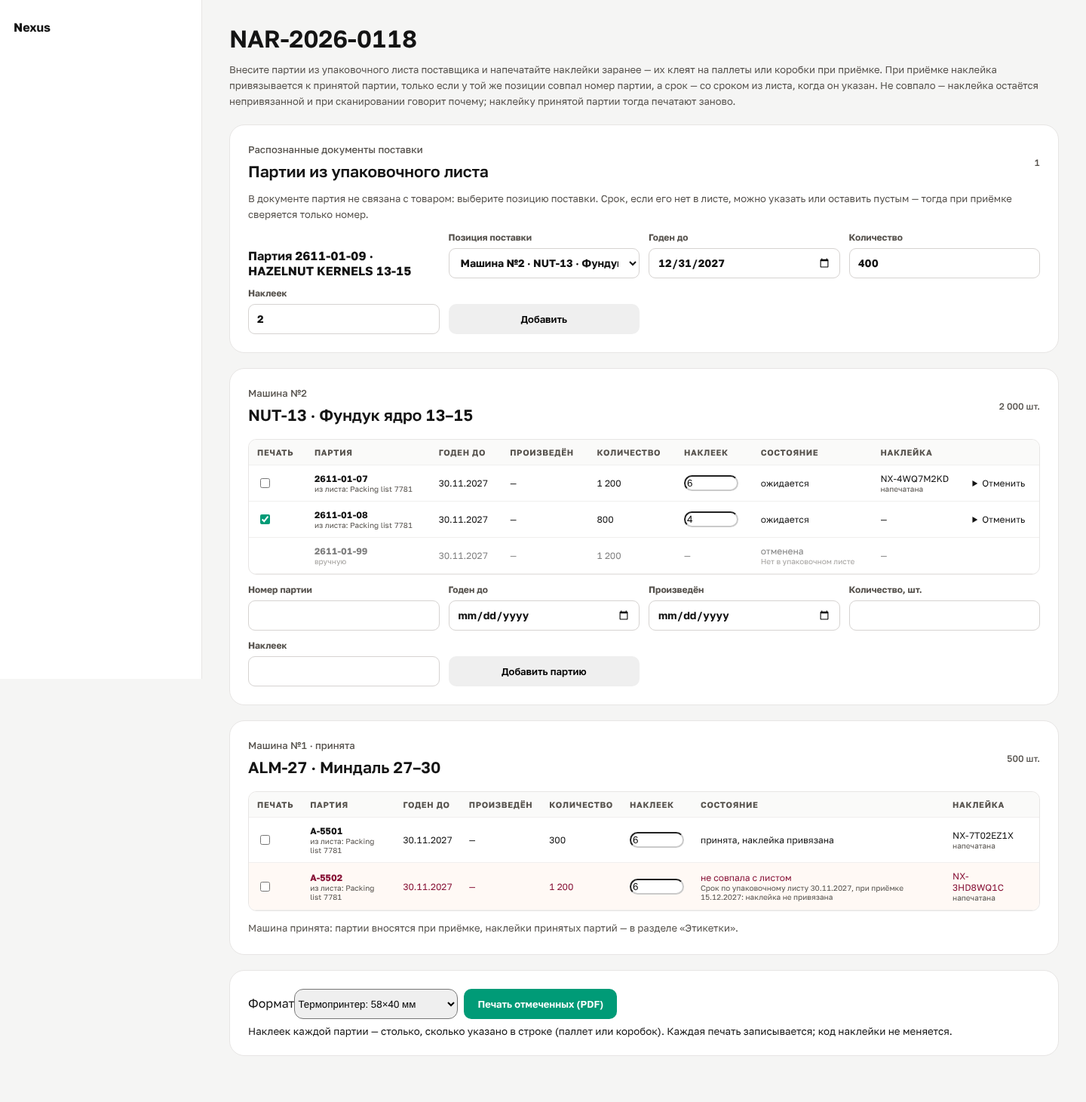
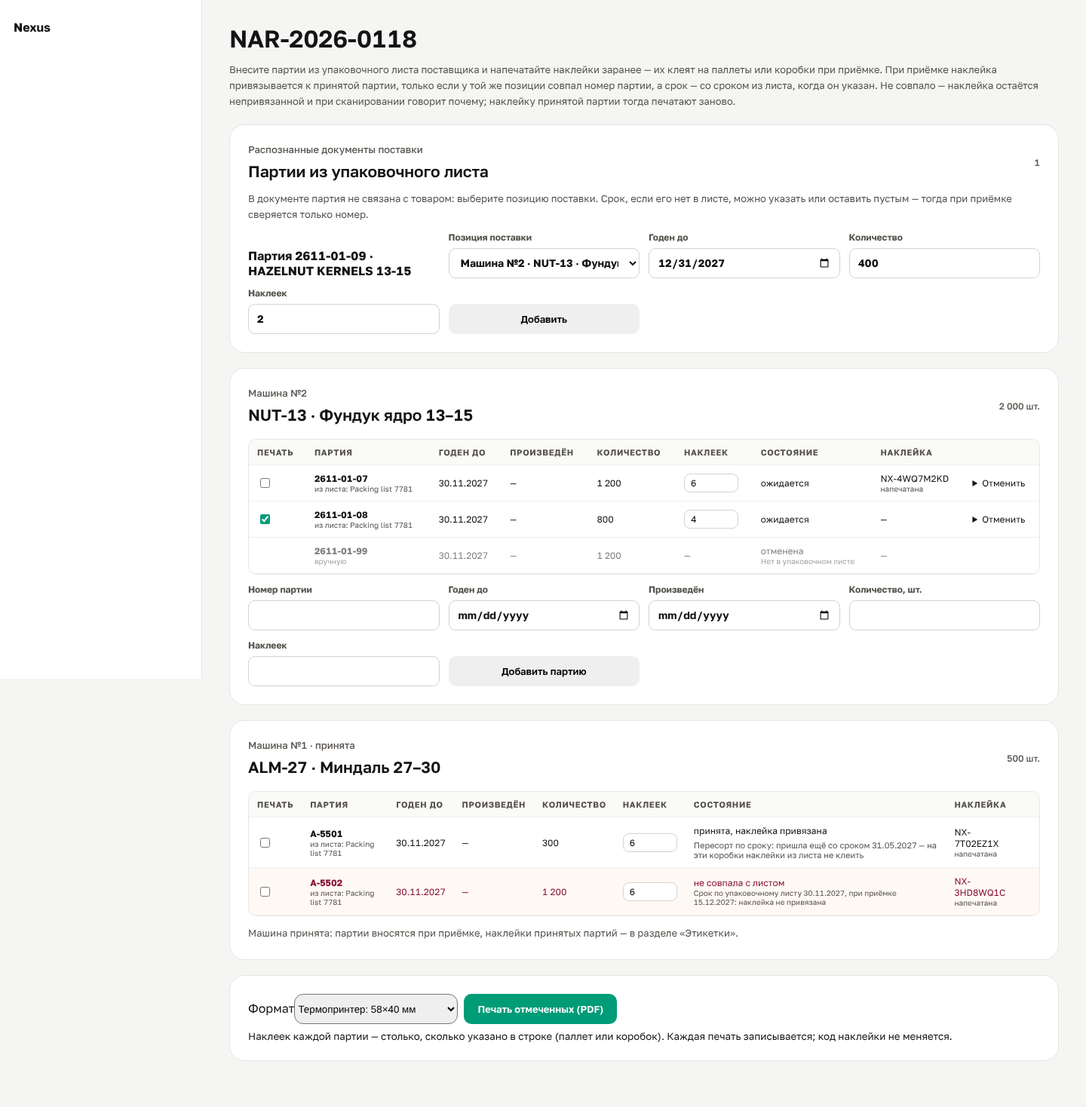
Пересорт по сроку: привязка не зависит от порядка строк, предупреждения
- Наклейка из упаковочного листа привязывается к части партии со сроком из
  листа, даже если строка того же номера с другим сроком стоит в приёмке раньше
  (раньше наклейка помечалась «не совпала» и не привязывалась).
- Тот же номер, принятый с другим сроком, называется: после приёмки
  («Пересорт по сроку»), на странице партий поставки, при поиске по этикетке
  и при отборе (карточка показывает нужный срок).
- Скан коробки на телефоне с тем же номером и другим сроком больше не
  принимается молча: отдельная строка, предупреждение и наклейка, которую на
  эти коробки клеить нельзя.

Claude-Session: https://claude.ai/code/session_01EU8RivHSwKM7VpFoboc5U7

diff --git a/tests/shipments/expected-batches.test.ts b/tests/shipments/expected-batches.test.ts
@@ -1,7 +1,7 @@
 import assert from "node:assert/strict";
 import { describe, it } from "node:test";
 import { matchPick, type PickList } from "../../src/lib/scan/operations.ts";
-import { packingLots, receivingRows, unboundAfterReceipt, type ExpectedBatch, type ShipmentExpected } from "../../src/lib/shipments/expected-batches.ts";
+import { packingLots, receivingRows, receiptLabelWarnings, type ExpectedBatch, type ShipmentExpected } from "../../src/lib/shipments/expected-batches.ts";
 
 const lot = (value: string, extra: Record<string, unknown> = {}) => ({ lot: value, description: "HAZELNUT KERNELS 13-15", quantity: null, cartons: null, pallets: null,
   grossKg: null, netKg: null, expiry: null, ...extra });
@@ -29,7 +29,7 @@ describe("batches of the recognized packing list", () => {
 });
 
 const batch = (value: string, extra: Partial<ExpectedBatch> = {}): ExpectedBatch => ({ id: value, batch: value, expiry_date: "2027-11-30", manufacture_date: null,
-  quantity: null, packages: null, source: "packing_list", source_note: null, state: "expected", note: null, batch_id: null, label_code: `NX-${value}`, printed: true, ...extra });
+  quantity: null, packages: null, source: "packing_list", source_note: null, state: "expected", note: null, batch_id: null, label_code: `NX-${value}`, printed: true, other_expiries: [], ...extra });
 
 describe("receiving rows filled in advance", () => {
   it("one row per batch still expected; a single batch without a quantity takes the whole item", () => {
@@ -39,13 +39,29 @@ describe("receiving rows filled in advance", () => {
     assert.deepEqual(receivingRows(100, []), []);
   });
 
-  it("after the receipt, name the labels of one truck that stayed unbound", () => {
+  it("after the receipt, name the labels of one truck that stayed unbound and the batches mixed up by expiry", () => {
     const data: ShipmentExpected = { shipment_id: "s", shipment_number: "NAR-1", status: "receiving", can_manage: true, orphans: [], items: [
       { item_id: "i1", product_id: "p", sku: "PRE-1", product: "Фундук", uom: "piece", quantity: "100", transport_id: "t1", transport_no: 1, transport_status: "arrived",
-        received: true, batches: [batch("A", { state: "received" }), batch("B", { state: "mismatch" }), batch("Q", { state: "missing" })] },
+        received: true, batches: [batch("A", { state: "received", other_expiries: ["2027-05-31"] }), batch("B", { state: "mismatch" }), batch("Q", { state: "missing" })] },
       { item_id: "i2", product_id: "p2", sku: "PRE-2", product: "Миндаль", uom: "piece", quantity: "5", transport_id: "t2", transport_no: 2, transport_status: "planned",
         received: false, batches: [batch("Z", { state: "missing" })] }] };
-    assert.deepEqual(unboundAfterReceipt(data, "t1"), ["PRE-1 B (не совпала с листом)", "PRE-1 Q (не пришла)"]);
+    assert.equal(receiptLabelWarnings(data, "t1"), "Наклейки по упаковочному листу не привязаны: PRE-1 B (не совпала с листом), PRE-1 Q (не пришла)"
+      + " — напечатайте наклейки принятых партий. Пересорт по сроку: PRE-1 A — ещё со сроком 31.05.2027."
+      + " На коробки с другим сроком наклейки из листа не клеить — напечатайте им свои.");
+    assert.equal(receiptLabelWarnings(data, "t2"), "Наклейки по упаковочному листу не привязаны: PRE-2 Z (не пришла) — напечатайте наклейки принятых партий.");
+    assert.equal(receiptLabelWarnings({ ...data, items: [] }, "t1"), "");
+  });
+});
+
+describe("picking a batch mixed up by expiry", () => {
+  it("the reserved batch is picked, and the other expiry of its number is named", () => {
+    const list: PickList = { sale_id: "s", sale_number: "ЗК-1", status: "confirmed", customer: null, can_replace: false, lines: [
+      { reservation_id: "r", sku: "PRE-1", product: "Фундук", product_id: "p", batch_id: "b", batch: "LOT-A", expiry_date: "2027-11-30", location_id: null, location: "A-1",
+        uom: "piece", quantity: "5", picked: "0" }] };
+    const scan = (others?: string[]) => ({ kind: "batch" as const, code: "NX-1", stock: [], batch: { id: "b", batch: "LOT-A", expiry_date: "2027-11-30", status: "available",
+      product_id: "p", sku: "PRE-1", product: "Фундук", other_expiries: others } });
+    assert.deepEqual(matchPick(list, scan(["2027-05-31"])), { kind: "pick", line: list.lines[0], other_expiries: ["2027-05-31"] });
+    assert.deepEqual(matchPick(list, scan([])), { kind: "pick", line: list.lines[0] });
   });
 });
 

diff --git a/tests/ui/mobile-operations.browser.tsx b/tests/ui/mobile-operations.browser.tsx
@@ -40,13 +40,14 @@ const sheet: CountSheet = {
     supersedes_entry_id: null, superseded: false }], recount: null, book: null };
 
 const expectedBatch = (id: string, batch: string, extra: Partial<ExpectedBatch> = {}): ExpectedBatch => ({ id, batch, expiry_date: "2027-11-30", manufacture_date: null,
-  quantity: "1200", packages: 6, source: "packing_list", source_note: "Packing list 7781", state: "expected", note: null, batch_id: null, label_code: null, printed: false, ...extra });
+  quantity: "1200", packages: 6, source: "packing_list", source_note: "Packing list 7781", state: "expected", note: null, batch_id: null, label_code: null, printed: false,
+  other_expiries: [], ...extra });
 const shipmentBatches: ShipmentExpected = { shipment_id: "sh", shipment_number: "NAR-2026-0118", status: "in_transit", can_manage: true, orphans: [], items: [
   { item_id: "i1", product_id: "p1", sku: "NUT-13", product: "Фундук ядро 13–15", uom: "piece", quantity: "2000", transport_id: "t2", transport_no: 2, transport_status: "in_transit",
     received: false, batches: [expectedBatch("e1", "2611-01-07", { label_code: "NX-4WQ7M2KD", printed: true }), expectedBatch("e2", "2611-01-08", { quantity: "800", packages: 4 }),
       expectedBatch("e3", "2611-01-99", { state: "cancelled", note: "Нет в упаковочном листе", source: "manual", packages: null })] },
   { item_id: "i2", product_id: "p2", sku: "ALM-27", product: "Миндаль 27–30", uom: "piece", quantity: "500", transport_id: "t1", transport_no: 1, transport_status: "arrived",
-    received: true, batches: [expectedBatch("e4", "A-5501", { state: "received", batch_id: "b4", label_code: "NX-7T02EZ1X", printed: true, quantity: "300" }),
+    received: true, batches: [expectedBatch("e4", "A-5501", { state: "received", batch_id: "b4", label_code: "NX-7T02EZ1X", printed: true, quantity: "300", other_expiries: ["2027-05-31"] }),
       expectedBatch("e5", "A-5502", { state: "mismatch", note: "Срок по упаковочному листу 30.11.2027, при приёмке 15.12.2027: наклейка не привязана", label_code: "NX-3HD8WQ1C", printed: true })] }] };
 
 const view = new URLSearchParams(location.search).get("view") ?? "pick";
@@ -72,7 +73,7 @@ function Body() {
       shipment: "NAR-2026-0118", transport_no: 2 } }}/></>;
   if (view === "receive-expected") return <><h1 className="mobile-title">NAR-2026-0118 · машина №2</h1>
     <MobileReceiveForm shipmentId="sh" transportId="tr" performer="Синтетический кладовщик" action={record} locations={[{ id: "l5", code: "R-01", zone: "receiving" }]}
-      items={[{ item_id: "i1", title: "NUT-13 · Фундук ядро 13–15", expected: 2000, unit: "кг", codes: [], batches: [
+      items={[{ item_id: "i1", title: "NUT-13 · Фундук ядро 13–15", expected: 2000, unit: "кг", codes: ["4601234567893"], batches: [
         { expected: "1200", batch: "2611-01-07", expiry: "2027-11-30", manufactured: "", code: "NX-4WQ7M2KD" },
         { expected: "800", batch: "2611-01-08", expiry: "", manufactured: "", code: "NX-9HT3B6RE" }] }]}/></>;
   return <><h1 className="mobile-title">ПСТ-2026-118 · машина №2</h1>

diff --git a/src/lib/shipments/expected-batches.ts b/src/lib/shipments/expected-batches.ts
@@ -7,7 +7,7 @@ import type { ExpectedState } from "../scan/lookup.ts";
 export type ExpectedBatch = {
   id: string; batch: string; expiry_date: string | null; manufacture_date: string | null; quantity: string | null; packages: number | null;
   source: "manual" | "packing_list"; source_note: string | null; state: ExpectedState; note: string | null; batch_id: string | null;
-  label_code: string | null; printed: boolean;
+  label_code: string | null; printed: boolean; other_expiries: string[];
 };
 export type ExpectedItem = {
   item_id: string; product_id: string; sku: string; product: string; uom: string; quantity: string; transport_id: string | null;
@@ -66,9 +66,18 @@ export function receivingRows(itemQuantity: number, batches: ExpectedBatch[]): R
   }));
 }
 
-/** What the receipt did with the labels printed in advance for one truck: the batches whose labels stay unbound. */
-export function unboundAfterReceipt(data: ShipmentExpected, transportId: string) {
-  return data.items.filter(item => item.transport_id === transportId)
-    .flatMap(item => item.batches.filter(batch => ["mismatch", "not_received", "missing"].includes(batch.state))
-      .map(batch => `${item.sku} ${batch.batch} (${expectedStateLabel[batch.state]})`));
+const day = (value: string) => value.split("-").reverse().join(".");
+
+/** What the receipt did with the labels printed in advance for one truck: the batches whose labels stay unbound, and the
+ *  batches that came with another expiry too (mixed up with the packing list) — those boxes must not carry its labels. */
+export function receiptLabelWarnings(data: ShipmentExpected, transportId: string) {
+  const items = data.items.filter(item => item.transport_id === transportId);
+  const unbound = items.flatMap(item => item.batches.filter(batch => ["mismatch", "not_received", "missing"].includes(batch.state))
+    .map(batch => `${item.sku} ${batch.batch} (${expectedStateLabel[batch.state]})`));
+  const mixed = items.flatMap(item => item.batches.filter(batch => batch.state !== "cancelled" && batch.other_expiries.length)
+    .map(batch => `${item.sku} ${batch.batch} — ещё со сроком ${batch.other_expiries.map(day).join(", ")}`));
+  return [
+    unbound.length ? `Наклейки по упаковочному листу не привязаны: ${unbound.join(", ")} — напечатайте наклейки принятых партий.` : "",
+    mixed.length ? `Пересорт по сроку: ${mixed.join("; ")}. На коробки с другим сроком наклейки из листа не клеить — напечатайте им свои.` : "",
+  ].filter(Boolean).join(" ");
 }

diff --git a/src/components/mobile-receive-form.tsx b/src/components/mobile-receive-form.tsx
@@ -54,12 +54,22 @@ export function MobileReceiveForm({ shipmentId, transportId, items, locations, p
     const expiry = gs1?.ok ? gs1.expiry : null;
     if (!batch && !expiry) { setNotice({ ok: true, text: `${item.title}: введите партию и срок`, at, item: item.item_id }); focus(item.item_id); return; }
     const lines = rows[item.item_id];
-    const same = batch ? lines.find(row => row.batch === batch) : undefined;
+    const sameBatch = batch ? lines.filter(row => row.batch.trim().toUpperCase() === batch.toUpperCase()) : [];
+    // The same batch with the same expiry, or with none yet; another expiry on the box is a mix-up with the list.
+    const same = sameBatch.find(row => !expiry || row.expiry === expiry) ?? sameBatch.find(row => !row.expiry);
+    const conflict = !same && expiry ? sameBatch.find(row => row.expiry && row.expiry !== expiry) : undefined;
     const empty = lines.find(row => !row.batch && !row.expiry);
     const filled = `${batch ? `партия ${batch}` : ""}${batch && expiry ? ", " : ""}${expiry ? `срок ${shortDate(expiry)}` : ""}`;
     if (same) {
       if (expiry && !same.expiry) update(item.item_id, same.key, { expiry });
-      setNotice({ ok: true, text: `${item.title}: ${filled} — уже в строке`, at, item: item.item_id });
+      setNotice({ ok: true, text: `${item.title}: ${filled} — ${same.expiry ? "уже в строке" : "срок подставлен"}`, at, item: item.item_id });
+    } else if (conflict) {
+      const key = next;
+      setNext(key + 1);
+      setRows(current => ({ ...current, [item.item_id]: [...current[item.item_id],
+        { key, expected: "", accepted: "", damaged: "0", batch: batch ?? "", manufactured: "", expiry: expiry ?? "", reason: "" }] }));
+      setNotice({ ok: false, item: item.item_id, at, text: `${item.title}: на коробке партии ${batch} срок ${shortDate(expiry!)}, а в строке${conflict.code ? " по листу" : ""} — ${shortDate(conflict.expiry)}. `
+        + `Пересорт по сроку? Добавлена отдельная строка: разделите количество по срокам. Наклейку ${conflict.code ?? "из листа"} на эти коробки не клеить.` });
     } else if (empty) {
       update(item.item_id, empty.key, { batch: batch ?? "", expiry: expiry ?? "" });
       setNotice({ ok: true, text: `${item.title}: ${filled} подставлены`, at, item: item.item_id });

diff --git a/src/app/shipments/actions.ts b/src/app/shipments/actions.ts
@@ -8,7 +8,7 @@ import { refreshLogistAfterChange } from "@/lib/logist/run";
 import { publicErrorMessage, ruleViolationMessage } from "@/lib/errors/public-message";
 import { createTransportArguments, readTransportForm, transportChanges } from "@/lib/shipments/transport-form";
 import { readReceivingLines } from "@/lib/shipments/receiving-lines";
-import { unboundAfterReceipt, type ShipmentExpected } from "@/lib/shipments/expected-batches";
+import { receiptLabelWarnings, type ShipmentExpected } from "@/lib/shipments/expected-batches";
 import { readDateChanges } from "@/lib/shipments/date-corrections";
 import { palletWeightColumn, validPalletWeight } from "@/lib/shipments/pallet-weight";
 
@@ -189,8 +189,8 @@ export async function receiveShipmentTransport(formData:FormData){
   revalidatePath("/");
   // Labels printed in advance that the receipt did not bind (202611280700) are named, so they are reprinted now.
   const {data:expected}=await supabase.rpc("shipment_expected_batches",{p_shipment_id:shipmentId});
-  const unbound=expected&&transportId?unboundAfterReceipt(expected as ShipmentExpected,transportId):[];
-  redirect(`/shipments/${shipmentId}?success=${encodeURIComponent(`Автомобиль принят. Партии и остатки зарегистрированы.${unbound.length?` Наклейки по упаковочному листу не привязаны: ${unbound.join(", ")} — напечатайте наклейки принятых партий.`:""}`)}`);
+  const labels=expected&&transportId?receiptLabelWarnings(expected as ShipmentExpected,transportId):"";
+  redirect(`/shipments/${shipmentId}?success=${encodeURIComponent(`Автомобиль принят. Партии и остатки зарегистрированы.${labels?` ${labels}`:""}`)}`);
 }
 
 // Real dates of an executed shipment (shipments.backdate): only changed days are sent, with a mandatory reason.

diff --git a/src/app/m/receive/actions.ts b/src/app/m/receive/actions.ts
@@ -5,7 +5,7 @@ import { redirect } from "next/navigation";
 import { requireUser } from "@/lib/auth/access";
 import { ruleViolationMessage } from "@/lib/errors/public-message";
 import { readReceivingLines } from "@/lib/shipments/receiving-lines";
-import { unboundAfterReceipt, type ShipmentExpected } from "@/lib/shipments/expected-batches";
+import { receiptLabelWarnings, type ShipmentExpected } from "@/lib/shipments/expected-batches";
 
 // Receiving from a phone: the same lines and the same receive_shipment_transport as the full version (202611010100);
 // every rule and right is checked by the database.
@@ -29,7 +29,6 @@ export async function receiveTransportMobile(data: FormData) {
   revalidatePath(`/shipments/${shipmentId}`); revalidatePath("/shipments"); revalidatePath("/inventory"); revalidatePath("/inventory/movements");
   // Labels printed in advance that the receipt did not bind (202611280700) are named, so they are reprinted now.
   const { data: expected } = await supabase.rpc("shipment_expected_batches", { p_shipment_id: shipmentId });
-  const unbound = expected ? unboundAfterReceipt(expected as ShipmentExpected, transportId) : [];
-  redirect(`/m/receive?success=${encodeURIComponent(`Приёмка проведена: товар на складе.${unbound.length
-    ? ` Наклейки по упаковочному листу не привязаны: ${unbound.join(", ")} — напечатайте наклейки принятых партий.` : ""}`)}`);
+  const labels = expected ? receiptLabelWarnings(expected as ShipmentExpected, transportId) : "";
+  redirect(`/m/receive?success=${encodeURIComponent(`Приёмка проведена: товар на складе.${labels ? ` ${labels}` : ""}`)}`);
 }

diff --git a/src/components/shipments/expected-batches-view.tsx b/src/components/shipments/expected-batches-view.tsx
@@ -51,7 +51,9 @@ export function ExpectedBatchesView({ shipment, lots, message, addAction, cancel
             <td>{shortDate(batch.expiry_date)}</td><td>{shortDate(batch.manufacture_date)}</td>
             <td>{batch.quantity ? quantity(batch.quantity) : "—"}</td>
             <td>{canPrint ? <input name={`copies_${batch.id}`} form="print-labels" type="number" min={1} max={100} defaultValue={batch.packages ?? 1} aria-label={`Наклеек партии ${batch.batch}`}/> : "—"}</td>
-            <td>{expectedStateLabel[batch.state]}{batch.note ? <small>{batch.note}</small> : null}</td>
+            <td>{expectedStateLabel[batch.state]}{batch.note ? <small>{batch.note}</small> : null}
+              {batch.other_expiries.length > 0 && <small className="load-warning-text">Пересорт по сроку: пришла ещё со сроком {batch.other_expiries.map(shortDate).join(", ")} —
+                на эти коробки наклейки из листа не клеить</small>}</td>
             <td>{batch.label_code ?? "—"}{batch.label_code && <small>{batch.printed ? "напечатана" : "не печаталась"}</small>}</td>
             <td>{shipment.can_manage && batch.state === "expected" && <details><summary>Отменить</summary><form action={cancelAction} className="inline-action">
               <input type="hidden" name="shipment_id" value={shipment.shipment_id}/><input type="hidden" name="expected_batch_id" value={batch.id}/>

diff --git a/src/lib/scan/operations.ts b/src/lib/scan/operations.ts
@@ -25,7 +25,7 @@ export function scannedBatches(result: ScanResult | null, batchNumber?: string |
 }
 
 export type PickMatch =
-  | { kind: "pick"; line: PickLine }
+  | { kind: "pick"; line: PickLine; other_expiries?: string[] }
   | { kind: "done"; line: PickLine }
   | { kind: "foreign"; batch: string | null; expected: PickLine | null }
   | { kind: "need_batch"; product: string }
@@ -48,7 +48,9 @@ export function matchPick(list: PickList, result: ScanResult | null, batchNumber
     return { kind: "foreign", batch: batchNumber ?? null, expected };
   }
   const open = list.lines.find(line => batches.includes(line.batch_id) && remaining(line) > 0);
-  if (open) return { kind: "pick", line: open };
+  // The same number with another expiry in stock (a batch mixed up by expiry): the box is compared with the label.
+  const others = result.kind === "batch" ? result.batch.other_expiries ?? [] : [];
+  if (open) return others.length ? { kind: "pick", line: open, other_expiries: others } : { kind: "pick", line: open };
   const done = list.lines.find(line => batches.includes(line.batch_id));
   if (done) return { kind: "done", line: done };
   const name = result.kind === "batch" ? result.batch.batch : batchNumber ?? null;

diff --git a/src/components/mobile-pick.tsx b/src/components/mobile-pick.tsx
@@ -58,6 +58,9 @@ function MatchCard({ list, match, code, batch, pickAction }: { list: PickList; m
       <small>Партия совпадает с резервом</small>
       <strong className="mobile-big">{line.sku} · партия {line.batch}</strong>
       <span>место {place(line)} · осталось взять {quantity(remaining(line))} {unit(line.uom)}</span>
+      <span>годен до <strong>{shortDate(line.expiry_date)}</strong> — сверьте с коробкой</span>
+      {!!match.other_expiries?.length && <p className="load-warning-text">Партия {line.batch} есть и со сроком {match.other_expiries.map(shortDate).join(", ")}:
+        возьмите коробки со сроком {shortDate(line.expiry_date)}.</p>}
       <form action={pickAction} className="mobile-form">
         <input type="hidden" name="sale_id" value={list.sale_id}/><input type="hidden" name="reservation_id" value={line.reservation_id}/>
         <input type="hidden" name="batch_id" value={line.batch_id}/><input type="hidden" name="location_id" value={line.location_id ?? ""}/>

diff --git a/src/components/scan-result.tsx b/src/components/scan-result.tsx
@@ -24,6 +24,8 @@ export function ScanResultView({ result, today, params, bindAction }: { result: 
       {result.kind === "batch" && <section className="mobile-card">
         <strong className="mobile-big">{result.batch.product}</strong>
         <small>{result.batch.sku} · партия {result.batch.batch} · годен до {shortDate(result.batch.expiry_date)}</small>
+        {!!result.batch.other_expiries?.length && <p className="load-warning-text">Партия с этим номером есть и со сроком {result.batch.other_expiries.map(shortDate).join(", ")}:
+          сверьте срок на коробке со сроком на этикетке.</p>}
         <Stock rows={result.stock} today={today}/>
       </section>}
       {result.kind === "expected" && <section className={`mobile-card${result.expected.state === "expected" ? "" : " mobile-card-warning"}`}>

diff --git a/src/lib/scan/lookup.ts b/src/lib/scan/lookup.ts
@@ -10,7 +10,8 @@ export type ScanProduct = { product_id: string; sku: string; product: string; id
 export type ScanResult =
   | { kind: "product"; code: string; products: ScanProduct[] }
   | { kind: "location"; code: string; location: { id: string; code: string; zone: string; status: string; warehouse_id: string; warehouse: string }; stock: StockRow[] }
-  | { kind: "batch"; code: string; batch: { id: string; batch: string; expiry_date: string | null; status: string; product_id: string; sku: string; product: string }; stock: StockRow[] }
+  | { kind: "batch"; code: string; batch: { id: string; batch: string; expiry_date: string | null; status: string; product_id: string; sku: string; product: string;
+      other_expiries?: string[] }; stock: StockRow[] }
   | { kind: "expected"; code: string; expected: ExpectedLabel }
   | { kind: "unknown"; code: string; can_bind: boolean };
 

diff --git a/docs/mobile-warehouse.md b/docs/mobile-warehouse.md
@@ -96,6 +96,26 @@
 
 Если позицию удалили из поставки, её наклейки становятся недействительными, и при сканировании это видно.
 
+### Пересорт по сроку: в листе один срок, на коробках другой
+
+- **Одна позиция принимается несколькими партиями с разными сроками**, даже с одним номером партии. В остатке и FEFO у каждой части свой фактический срок, введённый при приёмке.
+- **Скан коробки на телефоне.** Если номер партии совпал со строкой, а срок на коробке другой, форма:
+  - не принимает скан молча — говорит «Пересорт по сроку?»;
+  - добавляет отдельную строку с этим сроком — количество делят по срокам;
+  - называет наклейку из листа, которую на эти коробки клеить нельзя.
+- **Привязка не зависит от порядка строк приёмки.** Наклейка из листа привязывается к части со сроком из листа, даже если строка с другим сроком стоит раньше.
+- **Предупреждения о второй части партии:**
+  - после приёмки — сообщение «Пересорт по сроку: … ещё со сроком …»;
+  - на странице «Партии и наклейки»;
+  - при поиске по этикетке — «партия с этим номером есть и со сроком …: сверьте срок на коробке»;
+  - при отборе — карточка показывает нужный срок и просит сверить его с коробкой.
+- **Чего программа не видит:**
+  - на какую паллету физически наклеили наклейку;
+  - сверял ли кладовщик подставленный из листа срок с коробкой.
+
+  Поэтому на наклейке напечатан срок, и перед наклеиванием его сверяют с маркировкой.
+- **Срок, исправленный после приёмки.** Операции, которая переносит часть партии на другой срок, пока нет. Такую часть блокируют (карантин) до исправления.
+
 ## Приёмка (`/m/receive`)
 
 - Список — машины со статусом «Прибыл», ещё не принятые, в поставках, открытых для приёмки. Право — «Остатки: приёмка».
